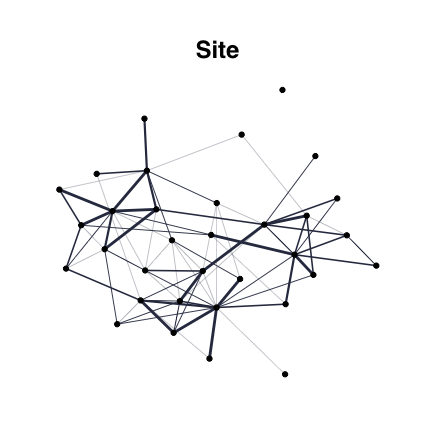
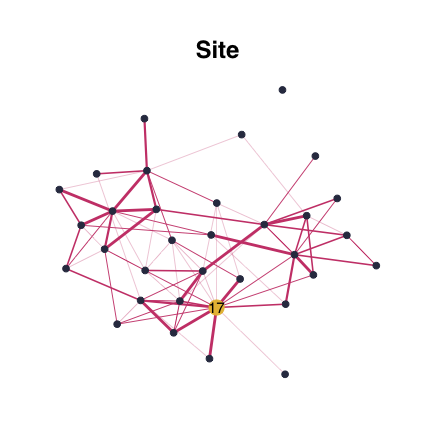
modified draw_network()

diff --git a/docs/reference/draw_network.html b/docs/reference/draw_network.html
@@ -130,8 +130,9 @@
     </div>
 
     <pre class="usage"><span class='fu'>draw_network</span>(<span class='no'>adj_matrix</span>, <span class='kw'>title</span> <span class='kw'>=</span> <span class='st'>""</span>, <span class='kw'>size</span> <span class='kw'>=</span> <span class='fl'>4</span>, <span class='kw'>curv</span> <span class='kw'>=</span> <span class='fl'>0</span>, <span class='kw'>width</span> <span class='kw'>=</span> <span class='fl'>1</span>,
-  <span class='kw'>alpha</span> <span class='kw'>=</span> <span class='fl'>FALSE</span>, <span class='kw'>filter_deg</span> <span class='kw'>=</span> <span class='fl'>FALSE</span>, <span class='kw'>nb</span> <span class='kw'>=</span> <span class='fl'>1</span>, <span class='kw'>layout</span> <span class='kw'>=</span> <span class='kw'>NULL</span>,
-  <span class='kw'>nodes_label</span> <span class='kw'>=</span> <span class='kw'>NULL</span>, <span class='kw'>pal</span> <span class='kw'>=</span> <span class='st'>"#31374f"</span>, <span class='kw'>groupes</span> <span class='kw'>=</span> <span class='kw'>NULL</span>)</pre>
+  <span class='kw'>shade</span> <span class='kw'>=</span> <span class='fl'>FALSE</span>, <span class='kw'>filter_deg</span> <span class='kw'>=</span> <span class='fl'>FALSE</span>, <span class='kw'>btw_rank</span> <span class='kw'>=</span> <span class='fl'>2</span>, <span class='kw'>layout</span> <span class='kw'>=</span> <span class='kw'>NULL</span>,
+  <span class='kw'>nodes_label</span> <span class='kw'>=</span> <span class='kw'>NULL</span>, <span class='kw'>nodes_size</span> <span class='kw'>=</span> <span class='fu'><a href='https://rdrr.io/r/base/c.html'>c</a></span>(<span class='fl'>2</span>, <span class='fl'>5</span>), <span class='kw'>pal_edges</span> <span class='kw'>=</span> <span class='kw'>NULL</span>,
+  <span class='kw'>pal_nodes</span> <span class='kw'>=</span> <span class='kw'>NULL</span>, <span class='kw'>groupes</span> <span class='kw'>=</span> <span class='kw'>NULL</span>)</pre>
 
     <h2 class="hasAnchor" id="arguments"><a class="anchor" href="#arguments"></a>Arguments</h2>
     <table class="ref-arguments">
@@ -157,16 +158,16 @@
       <td><p>maximum width for the edges</p></td>
     </tr>
     <tr>
-      <th>alpha</th>
-      <td><p>if TRUE, sets to transparent the edges non-linked to nodes with high betweenness</p></td>
+      <th>shade</th>
+      <td><p>if TRUE, shades the edges unlinked to nodes with high betweenness</p></td>
     </tr>
     <tr>
       <th>filter_deg</th>
       <td><p>selects nodes with a higher degree than filter_deg</p></td>
     </tr>
     <tr>
-      <th>nb</th>
-      <td><p>sets the number of nodes selected by thresholding the beetweenness scores</p></td>
+      <th>btw_rank</th>
+      <td><p>betweenness rank +1 of highlighted nodes. If set to 1, none are highlighted.</p></td>
     </tr>
     <tr>
       <th>layout</th>
@@ -177,12 +178,16 @@
       <td><p>optional labels for nodes.</p></td>
     </tr>
     <tr>
-      <th>pal</th>
-      <td><p>optional palette.</p></td>
+      <th>nodes_size</th>
+      <td><p>size of nodes, possibility to specify a size per group</p></td>
     </tr>
     <tr>
       <th>groupes</th>
       <td><p>optional vector seperating the nodes into groupes</p></td>
+    </tr>
+    <tr>
+      <th>pal</th>
+      <td><p>optional palette.</p></td>
     </tr>
     </table>
 
@@ -196,32 +201,8 @@
 
 
     <h2 class="hasAnchor" id="examples"><a class="anchor" href="#examples"></a>Examples</h2>
-    <pre class="examples"><div class='input'><span class='no'>adj_matrix</span><span class='kw'>=</span> <span class='fu'><a href='SimCluster.html'>SimCluster</a></span>(<span class='kw'>p</span><span class='kw'>=</span><span class='fl'>30</span>,<span class='kw'>k</span><span class='kw'>=</span><span class='fl'>3</span>,<span class='kw'>dens</span><span class='kw'>=</span><span class='fl'>0.4</span>, <span class='kw'>r</span><span class='kw'>=</span><span class='fl'>50</span>)
-<span class='fu'>draw_network</span>(<span class='no'>adj_matrix</span>,<span class='st'>"Cluster graph"</span>, <span class='kw'>layout</span><span class='kw'>=</span><span class='st'>"fr"</span>,<span class='kw'>curv</span><span class='kw'>=</span><span class='fl'>0.1</span>)</div><div class='output co'>#&gt; $G</div><div class='img'><img src='draw_network-1.png' alt='' width='700' height='433' /></div><div class='output co'>#&gt; 
-#&gt; $graph_data
-#&gt; <span style='color: #949494;'># A tbl_graph: 30 nodes and 163 edges
-#&gt; #
-#&gt; # An undirected simple graph with 1 component
-#&gt; #
-#&gt; # Node Data: 30 x 8 (active)</span><span>
-#&gt;     btw bool_btw bool_deg   deg title          name label finalcolor
-#&gt;   </span><span style='color: #949494;font-style: italic;'>&lt;dbl&gt;</span><span> </span><span style='color: #949494;font-style: italic;'>&lt;lgl&gt;</span><span>    </span><span style='color: #949494;font-style: italic;'>&lt;lgl&gt;</span><span>    </span><span style='color: #949494;font-style: italic;'>&lt;dbl&gt;</span><span> </span><span style='color: #949494;font-style: italic;'>&lt;chr&gt;</span><span>         </span><span style='color: #949494;font-style: italic;'>&lt;int&gt;</span><span> </span><span style='color: #949494;font-style: italic;'>&lt;chr&gt;</span><span> </span><span style='color: #949494;font-style: italic;'>&lt;lgl&gt;</span><span>     
-#&gt; </span><span style='color: #BCBCBC;'>1</span><span> 10.4  FALSE    TRUE        15 Cluster graph     1 </span><span style='color: #949494;'>""</span><span>    FALSE     
-#&gt; </span><span style='color: #BCBCBC;'>2</span><span>  0.55 FALSE    TRUE        12 Cluster graph     2 </span><span style='color: #949494;'>""</span><span>    FALSE     
-#&gt; </span><span style='color: #BCBCBC;'>3</span><span> 33.9  FALSE    TRUE        10 Cluster graph     3 </span><span style='color: #949494;'>""</span><span>    FALSE     
-#&gt; </span><span style='color: #BCBCBC;'>4</span><span> 18.3  FALSE    TRUE        10 Cluster graph     4 </span><span style='color: #949494;'>""</span><span>    FALSE     
-#&gt; </span><span style='color: #BCBCBC;'>5</span><span> 20.5  FALSE    TRUE        10 Cluster graph     5 </span><span style='color: #949494;'>""</span><span>    FALSE     
-#&gt; </span><span style='color: #BCBCBC;'>6</span><span>  1.58 FALSE    TRUE        13 Cluster graph     6 </span><span style='color: #949494;'>""</span><span>    FALSE     
-#&gt; </span><span style='color: #949494;'># … with 24 more rows</span><span>
-#&gt; </span><span style='color: #949494;'>#
-#&gt; # Edge Data: 163 x 6</span><span>
-#&gt;    from    to weight btw.weights neibs title        
-#&gt;   </span><span style='color: #949494;font-style: italic;'>&lt;int&gt;</span><span> </span><span style='color: #949494;font-style: italic;'>&lt;int&gt;</span><span>  </span><span style='color: #949494;font-style: italic;'>&lt;dbl&gt;</span><span>       </span><span style='color: #949494;font-style: italic;'>&lt;dbl&gt;</span><span> </span><span style='color: #949494;font-style: italic;'>&lt;lgl&gt;</span><span> </span><span style='color: #949494;font-style: italic;'>&lt;chr&gt;</span><span>        
-#&gt; </span><span style='color: #BCBCBC;'>1</span><span>     1     2      1       0.693 FALSE Cluster graph
-#&gt; </span><span style='color: #BCBCBC;'>2</span><span>     1     6      1       0.693 FALSE Cluster graph
-#&gt; </span><span style='color: #BCBCBC;'>3</span><span>     1     7      1       0.693 FALSE Cluster graph
-#&gt; </span><span style='color: #949494;'># … with 160 more rows</span><span>
-#&gt; </div></span></pre>
+    <pre class="examples"><div class='input'><span class='no'>adj_matrix</span><span class='kw'>=</span> <span class='fu'><a href='SimCluster.html'>SimCluster</a></span>(<span class='fl'>20</span>,<span class='fl'>2</span>,<span class='fl'>0.4</span>, <span class='fl'>10</span>)
+<span class='fu'>draw_network</span>(<span class='no'>adj_matrix</span>,<span class='st'>"Cluster graph"</span>, <span class='kw'>layout</span><span class='kw'>=</span><span class='st'>"fr"</span>, <span class='kw'>shade</span><span class='kw'>=</span><span class='fl'>TRUE</span>)</div><div class='output co'>#&gt; <span class='error'>Error in as_tibble(.): could not find function "as_tibble"</span></div></pre>
   </div>
   <div class="col-md-3 hidden-xs hidden-sm" id="sidebar">
     <h2>Contents</h2>

diff --git a/docs/reference/compar_graphs.html b/docs/reference/compar_graphs.html
@@ -129,7 +129,7 @@
     <p>Plots networks from several models</p>
     </div>
 
-    <pre class="usage"><span class='fu'>compar_graphs</span>(<span class='no'>allNets</span>, <span class='kw'>curv</span> <span class='kw'>=</span> <span class='fl'>0.2</span>, <span class='kw'>width</span> <span class='kw'>=</span> <span class='fl'>1</span>, <span class='kw'>alpha</span> <span class='kw'>=</span> <span class='fl'>TRUE</span>, <span class='kw'>Ft</span> <span class='kw'>=</span> <span class='fl'>0</span>,
+    <pre class="usage"><span class='fu'>compar_graphs</span>(<span class='no'>allNets</span>, <span class='kw'>curv</span> <span class='kw'>=</span> <span class='fl'>0.2</span>, <span class='kw'>width</span> <span class='kw'>=</span> <span class='fl'>1</span>, <span class='kw'>shade</span> <span class='kw'>=</span> <span class='fl'>TRUE</span>, <span class='kw'>Ft</span> <span class='kw'>=</span> <span class='fl'>0</span>,
   <span class='kw'>nodes_label</span> <span class='kw'>=</span> <span class='kw'>NULL</span>, <span class='kw'>seed</span> <span class='kw'>=</span> <span class='fl'>123</span>, <span class='kw'>nb</span> <span class='kw'>=</span> <span class='fl'>3</span>, <span class='kw'>layout</span> <span class='kw'>=</span> <span class='st'>"circle"</span>,
   <span class='kw'>base_model</span> <span class='kw'>=</span> <span class='kw'>NULL</span>)</pre>
 
@@ -149,8 +149,8 @@
       <td><p>maximum width for the edges</p></td>
     </tr>
     <tr>
-      <th>alpha</th>
-      <td><p>if TRUE, sets to transparent the edges non-linked to nodes with high betweenness</p></td>
+      <th>shade</th>
+      <td><p>if TRUE, shades the edges non-linked to nodes with high betweenness</p></td>
     </tr>
     <tr>
       <th>Ft</th>

diff --git a/docs/reference/freq_selec.html b/docs/reference/freq_selec.html
@@ -159,7 +159,7 @@
 #&gt; S= 3   
 #&gt; S= 4   
 #&gt; S= 5   </div><div class='input'><span class='no'>edges_freq</span><span class='kw'>&lt;-</span><span class='fu'>freq_selec</span>(<span class='no'>resample_prob</span>,<span class='kw'>Pt</span><span class='kw'>=</span><span class='fl'>0.3</span>)
-<span class='fu'><a href='https://rdrr.io/r/utils/str.html'>str</a></span>(<span class='no'>edges_freq</span>)</div><div class='output co'>#&gt;  num [1:10, 1:10] 0 0 0.6 1 0.8 1 0 0 0 0 ...</div></pre>
+<span class='fu'><a href='https://rdrr.io/r/utils/str.html'>str</a></span>(<span class='no'>edges_freq</span>)</div><div class='output co'>#&gt;  num [1:10, 1:10] 0 0 0.2 0 1 0 0 1 0 0 ...</div></pre>
   </div>
   <div class="col-md-3 hidden-xs hidden-sm" id="sidebar">
     <h2>Contents</h2>

diff --git a/docs/reference/ResampleEMtree.html b/docs/reference/ResampleEMtree.html
@@ -193,7 +193,7 @@ resampling.</p><ul>
 #&gt; S= 5   </div><div class='input'><span class='fu'><a href='https://rdrr.io/r/utils/str.html'>str</a></span>(<span class='no'>resample</span>)</div><div class='output co'>#&gt; List of 3
 #&gt;  $ Pmat   : num [1:5, 1:45] 0.875 0.947 0.872 0.748 0.956 ...
 #&gt;  $ maxIter: num [1:5] 3 3 3 3 3
-#&gt;  $ times  : 'difftime' num [1:5] 0.0327320098876953 0.0345611572265625 0.0434229373931885 0.0517280101776123 ...
+#&gt;  $ times  : 'difftime' num [1:5] 0.0325717926025391 0.0341501235961914 0.0437800884246826 0.0488259792327881 ...
 #&gt;   ..- attr(*, "units")= chr "secs"</div></pre>
   </div>
   <div class="col-md-3 hidden-xs hidden-sm" id="sidebar">

diff --git a/docs/reference/EMtree.html b/docs/reference/EMtree.html
@@ -241,7 +241,7 @@
 #&gt; [1] 2.58084e-10
 #&gt; 
 #&gt; $timeEM
-#&gt; Time difference of 0.051543 secs
+#&gt; Time difference of 0.05101609 secs
 #&gt; </div></pre>
   </div>
   <div class="col-md-3 hidden-xs hidden-sm" id="sidebar">
